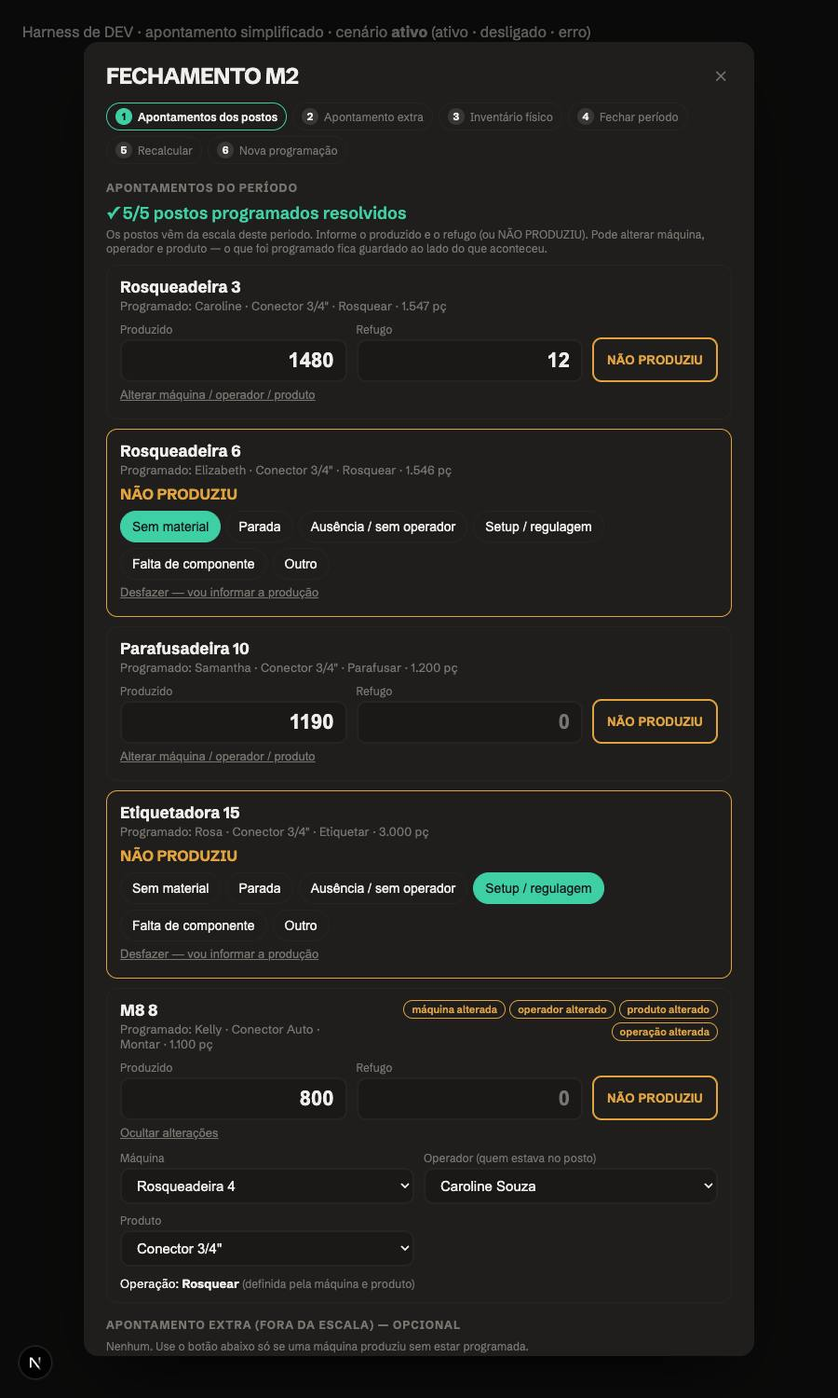
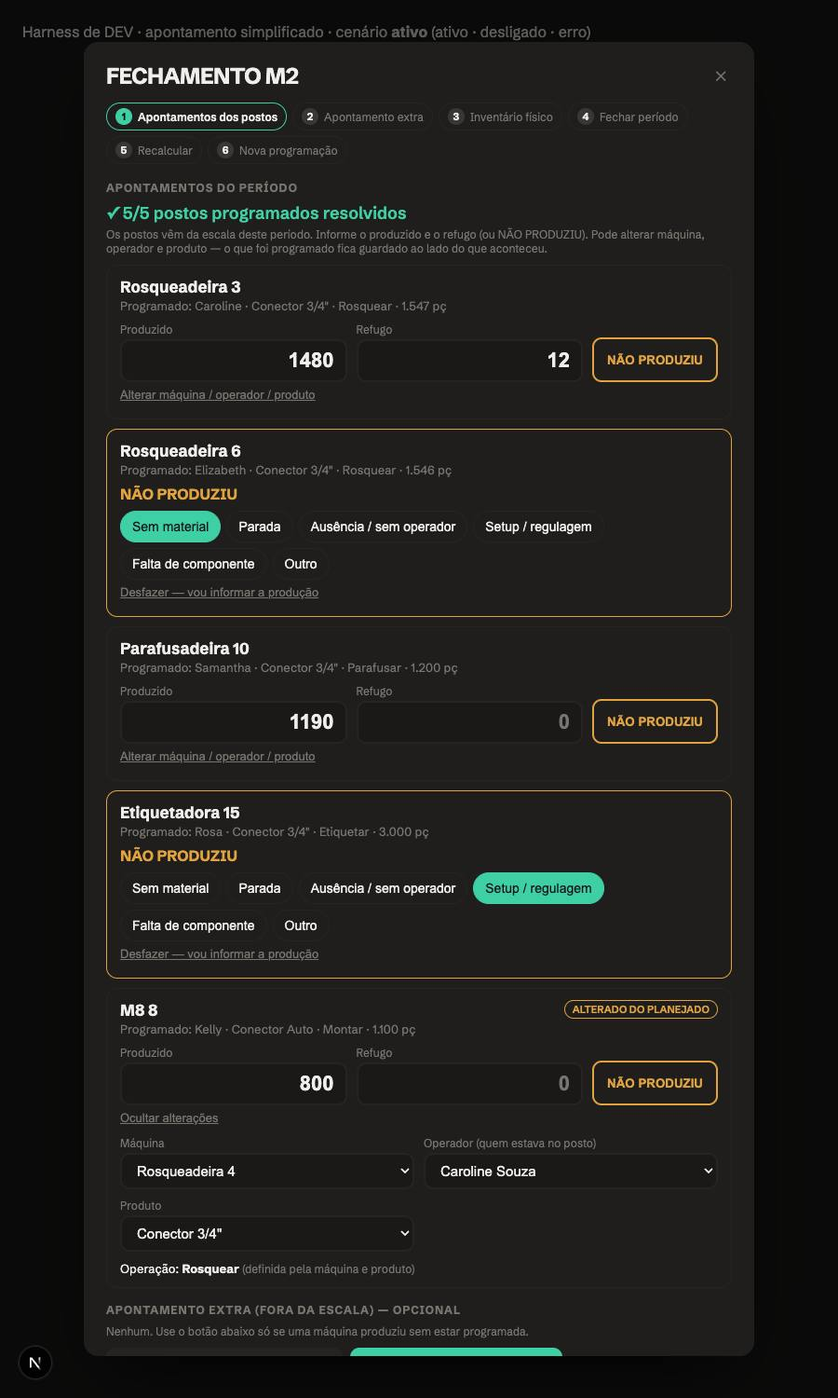
feat(apontamento-simplificado): decisões aprovadas (selo ALTERADO DO PLANEJADO, mensagem de combinação inválida), ensaio supabase-js/RPC no clone e doc atualizado

diff --git a/scripts/apontamento-simplificado/ensaio-supabasejs.ts b/scripts/apontamento-simplificado/ensaio-supabasejs.ts
@@ -1,0 +1,142 @@
+/* eslint-disable @typescript-eslint/no-explicit-any */
+// ENSAIO REAL da camada supabase-js/RPC do apontamento simplificado: PostgREST do CLONE LOCAL com JWT DE USUÁRIO (o mesmo desenho de autenticarRequisicaoIntelligence:
+// `supabaseAsUser` = anon key + Authorization Bearer <jwt do usuário>), service_role para as leituras, e as camadas reais: acaoApontamentos* → criarApontamentosIO → RPC →
+// ajustarPostosDoFechamento → criarFechamentoIO.contexto → acaoAbrir/acaoConfirmar (validação). NUNCA roda em PROD/DEV (aborta). Chamado por ensaio-supabasejs.sh (banco descartável + PostgREST próprio).
+import { execFileSync } from "node:child_process";
+import { createHmac } from "node:crypto";
+import { createClient, type SupabaseClient } from "@supabase/supabase-js";
+import { acaoApontamentosEstado, acaoApontamentosSalvar } from "@/lib/escala/fechamento/httpApontamentos";
+import { criarApontamentosIO } from "@/lib/escala/fechamento/apontamentoSimplificado";
+import { criarFechamentoIO } from "@/lib/escala/fechamento/supabaseFechamento";
+import { acaoAbrir, acaoConfirmar, type UsuarioFechamento } from "@/lib/escala/fechamento/http";
+import { linhasIniciais } from "@/features/producao-real/apontamento-simplificado/prefill";
+import { editarReal, escolherMotivo, informarQuantidades, marcarNaoProduziu } from "@/features/producao-real/apontamento-simplificado/linhas";
+import { paraRpc } from "@/features/producao-real/apontamento-simplificado/validacao";
+import { alteradoDoPlanejado } from "@/features/producao-real/apontamento-simplificado/diff";
+import type { EstadoApontamentos } from "@/lib/escala/fechamento/apontamentoSimplificado";
+
+const URL = process.env.NEXT_PUBLIC_SUPABASE_URL ?? "", ANON = process.env.NEXT_PUBLIC_SUPABASE_ANON_KEY ?? "", SVC = process.env.SUPABASE_SERVICE_ROLE_KEY ?? "", SECRET = process.env.E2E_JWT_SECRET ?? "";
+const PGPORT = process.env.CLONE_PGPORT ?? "55433", PGDB = process.env.E2E_PGDB ?? "sittech_apont_e2e";
+if (!/^http:\/\/(127\.0\.0\.1|localhost):\d+$/.test(URL) || /supabase\.co/.test(URL)) throw new Error("ABORTADO: o ensaio só roda contra o clone local");
+if (PGDB === "sittech_clone") throw new Error("ABORTADO: use o banco descartável (o clone compartilhado não recebe a migration)");
+if (!SECRET || !ANON || !SVC) throw new Error("faltam E2E_JWT_SECRET / chaves (carregue env.clone e use o .sh)");
+
+const psql = (q: string): string => execFileSync("/opt/homebrew/opt/libpq/bin/psql", ["-h", "127.0.0.1", "-p", PGPORT, "-U", "postgres", "-d", PGDB, "-At", "-v", "ON_ERROR_STOP=1", "-c", q], { encoding: "utf8" }).trim();
+const b64 = (o: unknown) => Buffer.from(JSON.stringify(o)).toString("base64url");
+const jwt = (sub: string) => { const h = b64({ alg: "HS256", typ: "JWT" }), p = b64({ sub, role: "authenticated", aud: "authenticated", exp: Math.floor(Date.now() / 1000) + 3600 }); return `${h}.${p}.${createHmac("sha256", SECRET).update(`${h}.${p}`).digest("base64url")}`; };
+const clienteUsuario = (authUid: string): SupabaseClient => createClient(URL, ANON, { auth: { persistSession: false, autoRefreshToken: false }, global: { headers: { Authorization: `Bearer ${jwt(authUid)}` } } });
+const admin = createClient(URL, SVC, { auth: { persistSession: false, autoRefreshToken: false } });
+
+const falhas: string[] = [];
+const ok = (c: boolean, nome: string, det = "") => { console.log(`${c ? "PASS" : "FAIL"}  ${nome}${det ? ` — ${det}` : ""}`); if (!c) falhas.push(nome); };
+const uuid = () => crypto.randomUUID();
+
+async function main() {
+  // usuários do clone (placeholders de auth): 2 admins distintos
+  const admins = psql("select id||'|'||auth_user_id from usuarios where papel='admin' and ativo order by id limit 2").split("\n").map((l) => l.split("|"));
+  const [[uidA, authA], [uidB, authB]] = admins;
+  const semPerm = psql("select auth_user_id from usuarios where papel<>'admin' and ativo order by id limit 1");
+  psql("delete from usuario_permissoes where usuario_id = (select id from usuarios where auth_user_id = '" + semPerm + "') and permissao in ('escala_fechamento','producao_real_apontamento')");
+  const A: UsuarioFechamento = { id: uidA, papel: "admin" }, B: UsuarioFechamento = { id: uidB, papel: "admin" };
+
+  // dia/período de teste: último dia passado com alocações (m1), com a semana tendo Previsão
+  const DATA = psql("select max(data) from escala_producao_alocacoes where maquina_id is not null and periodo_id='m1' and data < (now() at time zone 'America/Sao_Paulo')::date");
+  const PER = "m1";
+  const semana = psql(`select (date_trunc('week', date '${DATA}'))::date`);
+  console.log(`Ensaio: ${DATA} ${PER} (semana ${semana}) · banco ${PGDB} · PostgREST ${URL}`);
+  psql(`delete from apontamentos_producao where data='${DATA}' and periodo_id='${PER}'`);
+  psql("update escala_parametros set valor='\"desligado\"' where chave='apontamento_simplificado_modo'");
+
+  const comoA = clienteUsuario(authA), comoB = clienteUsuario(authB);
+  // 0) identidade do JWT chega ao banco (auth.uid via PostgREST)
+  const quem = await comoA.from("usuarios").select("id").eq("auth_user_id", authA).maybeSingle();
+  ok(quem.data?.id === uidA, "JWT de usuário aceito pelo PostgREST (RLS vê o próprio usuário)", quem.error?.message ?? "");
+
+  // 1) flag desligada: GET só {modo}, POST 409, RPC direta recusa
+  const io = criarApontamentosIO(admin, comoA);
+  ok(JSON.stringify((await acaoApontamentosEstado(io, A, DATA, PER)).corpo) === '{"modo":"desligado"}', "flag desligada: estado devolve só {modo:desligado}");
+  ok((await acaoApontamentosSalvar(io, A, { data: DATA, periodo_id: PER, linhas: [] })).status === 409, "flag desligada: salvar = 409");
+  const direta = await comoA.rpc("registrar_apontamentos_fechamento", { p_data: DATA, p_periodo_id: PER, p_linhas: [] });
+  ok(/APONTAMENTO_SIMPLIFICADO_DESLIGADO/.test(direta.error?.message ?? ""), "flag desligada: a RPC chamada via PostgREST com JWT recusa", direta.error?.message?.slice(0, 60));
+
+  // 2) liga a flag (SQL administrativo: a service_role do app não escreve parâmetros, como em PROD)
+  psql("update escala_parametros set valor='\"ativo\"' where chave='apontamento_simplificado_modo'");
+  const est = await acaoApontamentosEstado(io, A, DATA, PER);
+  const e0 = est.corpo as unknown as EstadoApontamentos & { modo: string };
+  ok(est.status === 200 && e0.modo === "ativo", "estado (service_role) com a flag ativa");
+  const nPlano = Number(psql(`select count(distinct maquina_id) from escala_producao_alocacoes where data='${DATA}' and periodo_id='${PER}' and maquina_id is not null`));
+  ok(e0.postos.length === nPlano && nPlano > 2, `postos programados = máquinas do plano oficial (${nPlano})`);
+  ok(e0.catalogo.maquinas.length > 0 && e0.catalogo.elegibilidade.length > 0 && e0.existentes.length === 0 && e0.vinculos.length === 0, "catálogo/elegibilidade carregados; nada lançado ainda");
+
+  // 3) monta as linhas com o DOMÍNIO e grava com o JWT do usuário A
+  let ls = linhasIniciais(e0.postos, e0.existentes, e0.vinculos, uuid);
+  const [p0, p1, p2] = ls;
+  const outroFunc = e0.catalogo.funcionarios.find((f) => f.id !== p2.planejado!.funcionarioId)!.id;
+  ls = ls.map((l) => (l.chave === p0.chave ? informarQuantidades(l, { produzido: 900, refugo: 7 }) : l.chave === p1.chave ? escolherMotivo(marcarNaoProduziu(l), "PARADA") : l.chave === p2.chave ? informarQuantidades(editarReal(l, { funcionarioId: outroFunc }, e0.catalogo), { produzido: 500 }) : l));
+  ok(alteradoDoPlanejado(ls.find((l) => l.chave === p2.chave)!, e0.catalogo), "domínio: operador trocado ⇒ selo ALTERADO DO PLANEJADO");
+  const r1 = await acaoApontamentosSalvar(io, A, { data: DATA, periodo_id: PER, linhas: paraRpc(ls, e0.catalogo) });
+  ok(r1.status === 200 && (r1.corpo as any).linhas?.length === 3, "salvar 3 linhas via PostgREST/JWT (transação única)", JSON.stringify(r1.corpo).slice(0, 120));
+  const vinc = psql(`select count(*)||'|'||count(*) filter (where 'OPERADOR'=any(divergencias))||'|'||count(*) filter (where motivo_nao_produziu='PARADA')||'|'||count(*) filter (where criado_por='${uidA}') from apontamento_planejado_real where data='${DATA}' and periodo_id='${PER}'`);
+  ok(vinc === "3|1|1|3", "vínculos gravados: 3 · divergência OPERADOR 1 · motivo fino PARADA 1 · criado_por = JWT do usuário", vinc);
+  ok(psql(`select motivo_sem_producao||'/'||descricao_sem_producao from apontamentos_producao where data='${DATA}' and periodo_id='${PER}' and status='sem_producao'`) === "outro/Parada de máquina", "sem_producao legado recebe outro + 'Parada de máquina'");
+
+  // 4) estado de volta: linhas SALVA_FLUXO editáveis, planejado preservado
+  const e1 = (await acaoApontamentosEstado(io, A, DATA, PER)).corpo as unknown as EstadoApontamentos;
+  const ls1 = linhasIniciais(e1.postos, e1.existentes, e1.vinculos, uuid);
+  ok(ls1.filter((l) => l.situacao === "SALVA_FLUXO").length === 3 && ls1.filter((l) => l.situacao === "NOVA").length === nPlano - 3, "estado após salvar: 3 SALVA_FLUXO, demais ainda NOVA");
+  ok(ls1.find((l) => l.planejado?.maquinaId === p1.planejado!.maquinaId)!.motivo === "PARADA", "motivo fino PARADA volta na tela");
+
+  // 5) contexto REAL do fechamento (supabase-js, motor): postos refletem os apontamentos; pendentes restantes
+  const fio = criarFechamentoIO(admin, { podeExcecao: false });
+  const ctx = await fio.contexto(DATA, PER, Date.now());
+  const pend = ctx.postos.filter((p) => p.status === "pendente").length;
+  ok(ctx.postos.length === nPlano && pend === nPlano - 3, `contexto do fechamento: ${nPlano} postos, ${pend} pendentes`);
+  ok(typeof (ctx.resumoProducao as any).apontamento_simplificado?.vinculos === "number", "resumoProducao do fechamento leva o resumo do apontamento simplificado");
+
+  // 6) completa o resto (um deles realizado em OUTRA máquina), reenvia (substitui) e confere o fechamento
+  const livres = e1.catalogo.maquinas.filter((m) => !e1.postos.some((p) => p.maquinaId === m.id));
+  const p3 = ls1.find((l) => l.situacao === "NOVA")!;
+  const alvo = livres.find((m) => editarReal(p3, { maquinaId: m.id }, e1.catalogo).real.produtoId); // máquina livre onde o produto do plano é elegível
+  let ls2 = ls1.map((l) => (l.situacao === "NOVA" ? informarQuantidades(l, { produzido: 100 }) : l));
+  if (alvo) ls2 = ls2.map((l) => (l.chave === p3.chave ? editarReal(l, { maquinaId: alvo.id }, e1.catalogo) : l));
+  ok(!alvo || alteradoDoPlanejado(ls2.find((l) => l.chave === p3.chave)!, e1.catalogo), alvo ? `posto ${p3.planejado!.maquinaNome} realizado em ${alvo.nome} (selo)` : "(sem máquina livre elegível: passo de troca de máquina pulado)");
+  const r2 = await acaoApontamentosSalvar(io, A, { data: DATA, periodo_id: PER, linhas: paraRpc(ls2, e1.catalogo) });
+  ok(r2.status === 200 && (r2.corpo as any).substituidas === 3, "reenvio via PostgREST substitui as 3 linhas do fluxo e grava o restante", JSON.stringify(r2.corpo).slice(0, 80));
+  const ctx2 = await fio.contexto(DATA, PER, Date.now());
+  ok(ctx2.postos.every((p) => p.status !== "pendente"), "contexto: 0 postos pendentes (programados resolvidos, inclusive o realizado em outra máquina)", ctx2.postos.filter((p) => p.status === "pendente").map((p) => p.nome).join(","));
+  if (alvo) ok(ctx2.postos.find((p) => p.maquinaId === p3.planejado!.maquinaId)?.status === "produzindo" || ctx2.postos.find((p) => p.maquinaId === p3.planejado!.maquinaId)?.motivo?.startsWith("realizado em") === true, "posto programado trocado de máquina fica resolvido");
+  ok(psql(`select count(*) from apontamento_producao_historico where dados_novos->>'substituido_por'='registrar_apontamentos_fechamento'`) === "3", "histórico da substituição preservado (3)");
+
+  // 7) modo físico 'sombra': acaoAbrir enxerga tem_pendentes=false; confirmar recusa pelas regras de sempre quando falta algo
+  psql("insert into escala_parametros (chave, valor, grupo, descricao) values ('escala_fechamento_fisico_modo','\"sombra\"','operacional','ensaio') on conflict (chave) do update set valor='\"sombra\"'");
+  const fioA = criarFechamentoIO(admin, { podeExcecao: false });
+  const ab = await acaoAbrir(fioA, A, { data: DATA, periodo_id: PER });
+  ok(ab.status === 200 && (ab.corpo as any).tem_pendentes === false, "acaoAbrir (camada real): tem_pendentes=false com os postos programados resolvidos", `status ${ab.status}`);
+  psql(`delete from apontamentos_producao a using apontamento_planejado_real l where l.apontamento_id=a.id and l.data='${DATA}' and l.periodo_id='${PER}' and l.maquina_planejada_id is not null and a.maquina_id = l.maquina_planejada_id and a.status='produzindo' and a.id in (select a2.id from apontamentos_producao a2 join apontamento_planejado_real l2 on l2.apontamento_id=a2.id where l2.data='${DATA}' and l2.periodo_id='${PER}' limit 1)`);
+  const conf = await acaoConfirmar(criarFechamentoIO(admin, { podeExcecao: false }), A, { data: DATA, periodo_id: PER, chave: uuid(), buffers: [] });
+  ok(conf.status === 422 && (conf.corpo as any).erros?.some((e: any) => e.codigo === "POSTOS_PENDENTES"), "acaoConfirmar: posto programado sem apontamento ⇒ POSTOS_PENDENTES (422), nada gravado", `status ${conf.status}`);
+
+  // 8) identidade/permissão/janela com o fechamento físico em modo ATIVO (gatilho do banco)
+  psql("update escala_parametros set valor='\"ativo\"' where chave='escala_fechamento_fisico_modo'");
+  const PER2 = "m2";
+  psql(`delete from apontamentos_producao where data='${DATA}' and periodo_id='${PER2}'`);
+  psql(`select escala_fechamento_abrir('${semana}', '${DATA}', '${PER2}', '${uidA}', 'ensaio', 30, false)`);
+  const mq = e1.catalogo.maquinas[0].id;
+  const linhaSem = (chave: string) => ({ data: DATA, periodo_id: PER2, linhas: [{ chave, maquina_planejada_id: null, maquina_id: mq, produto_id: null, funcionario_id: null, produzido: 0, refugo: 0, nao_produziu: true, motivo: "SEM_MATERIAL", descricao: "" }] });
+  const rB = await acaoApontamentosSalvar(criarApontamentosIO(admin, comoB), B, linhaSem(uuid()));
+  ok(rB.status === 422 && /FECHAMENTO_PERIODO_EM_FECHAMENTO/.test(String((rB.corpo as any).erro)), "janela aberta por A: o JWT de B é recusado pelo gatilho", `status ${rB.status}`);
+  const rA = await acaoApontamentosSalvar(criarApontamentosIO(admin, comoA), A, linhaSem(uuid()));
+  ok(rA.status === 200, "janela aberta por A: o JWT de A grava", `status ${rA.status}`);
+  const rSem = await clienteUsuario(semPerm).rpc("registrar_apontamentos_fechamento", { p_data: DATA, p_periodo_id: PER2, p_linhas: [] });
+  ok(/sem permissão/i.test(rSem.error?.message ?? ""), "usuário sem permissão (JWT) é recusado pela RPC", rSem.error?.message?.slice(0, 60));
+  const rAnon = await createClient(URL, ANON, { auth: { persistSession: false } }).rpc("registrar_apontamentos_fechamento", { p_data: DATA, p_periodo_id: PER2, p_linhas: [] });
+  ok(!!rAnon.error, "anon (sem JWT de usuário) não executa a RPC", rAnon.error?.message?.slice(0, 60));
+  const rSvc = await admin.rpc("registrar_apontamentos_fechamento", { p_data: DATA, p_periodo_id: PER2, p_linhas: [] });
+  ok(!!rSvc.error, "service_role não executa a RPC (só o usuário autenticado)", rSvc.error?.message?.slice(0, 60));
+  const alt = await comoA.from("apontamento_planejado_real").update({ planejado: {} }).eq("data", DATA).select();
+  ok(!!alt.error || (alt.data ?? []).length === 0, "vínculo é append-only também via PostgREST", alt.error?.message?.slice(0, 60) ?? "0 linhas");
+
+  console.log(falhas.length ? `\nFALHAS (${falhas.length}): ${falhas.join(" | ")}` : "\nENSAIO SUPABASE-JS OK");
+  process.exit(falhas.length ? 1 : 0);
+}
+main().catch((e) => { console.error(e); process.exit(1); });

diff --git a/src/features/producao-real/apontamento-simplificado/__tests__/ui.test.tsx b/src/features/producao-real/apontamento-simplificado/__tests__/ui.test.tsx
@@ -87,12 +87,43 @@ describe("PassoApontamentos (UI)", () => {
     fireEvent.click(within(cartao).getByRole("button", { name: "Alterar máquina / operador / produto" }));
     fireEvent.change(within(cartao).getByLabelText(/Operador/), { target: { value: U(12) } });
     fireEvent.change(within(cartao).getByLabelText("Máquina"), { target: { value: U(3) } });
-    expect(await within(cartao).findByText("máquina alterada")).toBeTruthy();
-    expect(within(cartao).getByText("operador alterado")).toBeTruthy();
+    const selo = await within(cartao).findByText("ALTERADO DO PLANEJADO");
+    expect(selo.getAttribute("title")).toBe("Planejado ≠ real: máquina alterada, operador alterado");
     expect(within(cartao).getByText(/Programado: Caroline/)).toBeTruthy();
     fireEvent.click(screen.getByRole("button", { name: "SALVAR APONTAMENTOS" }));
     await waitFor(() => expect(salvarApontamentosApi).toHaveBeenCalled());
     expect(salvarApontamentosApi.mock.calls[0][2][0]).toMatchObject({ maquina_planejada_id: U(1), maquina_id: U(3), funcionario_id: U(12), produto_id: U(21), produzido: 700 });
+  });
+
+  it("selo ALTERADO DO PLANEJADO: aparece só quando operador, máquina ou produto mudam; some ao voltar ao plano; salvar não pede confirmação extra", async () => {
+    monta();
+    await screen.findByText("Rosqueadeira 3");
+    const cartao = screen.getByText("Rosqueadeira 3").closest(".stx-apx-card") as HTMLElement;
+    fireEvent.change(within(cartao).getByLabelText("Produzido Rosqueadeira 3"), { target: { value: "700" } });
+    expect(screen.queryAllByTestId("selo-alterado")).toHaveLength(0);                    // só quantidades: nada alterado
+    fireEvent.click(within(cartao).getByRole("button", { name: "Alterar máquina / operador / produto" }));
+    fireEvent.change(within(cartao).getByLabelText(/Operador/), { target: { value: U(12) } });
+    expect((await within(cartao).findByTestId("selo-alterado")).textContent).toBe("ALTERADO DO PLANEJADO");
+    expect(screen.queryAllByTestId("selo-alterado")).toHaveLength(1);                    // só nesta linha
+    fireEvent.change(within(cartao).getByLabelText(/Operador/), { target: { value: U(11) } });
+    await waitFor(() => expect(screen.queryAllByTestId("selo-alterado")).toHaveLength(0));
+    fireEvent.change(within(cartao).getByLabelText(/Operador/), { target: { value: U(12) } });
+    await screen.findByTestId("selo-alterado");
+    fireEvent.click(screen.getByRole("button", { name: "SALVAR APONTAMENTOS" }));        // um toque: sem diálogo de confirmação
+    await waitFor(() => expect(salvarApontamentosApi).toHaveBeenCalledTimes(1));
+    expect(screen.queryByRole("alertdialog")).toBeNull();
+  });
+
+  it("NÃO PRODUZIU oferece 'Parada' com esse nome e grava o motivo fino PARADA", async () => {
+    monta();
+    await screen.findByText("Rosqueadeira 3");
+    const cartao = screen.getByText("Rosqueadeira 3").closest(".stx-apx-card") as HTMLElement;
+    fireEvent.click(within(cartao).getByRole("button", { name: "NÃO PRODUZIU" }));
+    expect(within(cartao).getAllByRole("button").map((b) => b.textContent)).toContain("Parada");
+    fireEvent.click(within(cartao).getByRole("button", { name: "Parada" }));
+    fireEvent.click(screen.getByRole("button", { name: "SALVAR APONTAMENTOS" }));
+    await waitFor(() => expect(salvarApontamentosApi).toHaveBeenCalled());
+    expect(salvarApontamentosApi.mock.calls[0][2][0]).toMatchObject({ maquina_id: U(1), nao_produziu: true, motivo: "PARADA" });
   });
 
   it("+ ADICIONAR APONTAMENTO cria linha FORA DA ESCALA (maquina_planejada_id null); em branco não bloqueia nem é enviada", async () => {

diff --git a/src/features/producao-real/apontamento-simplificado/__tests__/dominio.test.ts b/src/features/producao-real/apontamento-simplificado/__tests__/dominio.test.ts
@@ -2,7 +2,7 @@ import { describe, expect, it } from "vitest";
 import type { AlocacaoPlano, ApontamentoExistente, Catalogo, LinhaApontamento, VinculoSalvo } from "../tipos";
 import { postosProgramados, linhasIniciais } from "../prefill";
 import { adicionarExtra, desfazerNaoProduziu, editarDescricao, editarReal, escolherMotivo, etapaDoPar, informarQuantidades, marcarNaoProduziu, operacaoDaLinha, produtosDaMaquina, removerExtra } from "../linhas";
-import { divergencias } from "../diff";
+import { alteradoDoPlanejado, divergencias } from "../diff";
 import { MOTIVOS_NAO_PRODUZIU, motivoDoBanco, paraSemProducao } from "../motivos";
 import { bloqueiosParaSalvar, completude, linhaEmBranco, linhaIniciada, paraRpc, problemasDaLinha, problemasDoConjunto } from "../validacao";
 import { lerLinhas } from "../payload";
@@ -103,6 +103,16 @@ describe("TUDO editável + planejado preservado (planejado × real)", () => {
     expect(problemasDaLinha(l, CAT).map((p) => p.codigo)).toContain("PRODUTO_SEM_ETAPA_NA_MAQUINA");
     expect(produtosDaMaquina(CAT, "m6").map((p) => p.id)).toEqual(["pA", "pB"]);
     expect(divergencias(editarReal(por(iniciais(), "m3"), { maquinaId: "m10" }, CAT), CAT)).toEqual(["MAQUINA", "OPERACAO"]);
+  });
+  it("selo ALTERADO DO PLANEJADO: operador, máquina ou produto; só quantidades ou voltar ao plano não acionam", () => {
+    const l = por(iniciais(), "m3");
+    expect(alteradoDoPlanejado(informarQuantidades(l, { produzido: 1, refugo: 0 }), CAT)).toBe(false);
+    expect(alteradoDoPlanejado(editarReal(l, { funcionarioId: "f3" }, CAT), CAT)).toBe(true);
+    expect(alteradoDoPlanejado(editarReal(l, { maquinaId: "m6" }, CAT), CAT)).toBe(true);
+    expect(alteradoDoPlanejado(editarReal(editarReal(l, { maquinaId: "m6" }, CAT), { produtoId: "pB" }, CAT), CAT)).toBe(true);
+    expect(alteradoDoPlanejado(editarReal(editarReal(l, { funcionarioId: "f3" }, CAT), { funcionarioId: "f1" }, CAT), CAT)).toBe(false);
+    expect(alteradoDoPlanejado(marcarNaoProduziu(editarReal(l, { maquinaId: "m6" }, CAT), "PARADA"), CAT)).toBe(true);   // PLANEJADO m3 / REAL m6, sem exigir NÃO PRODUZIU na m3
+    expect(alteradoDoPlanejado(adicionarExtra([], U(1))[0], CAT)).toBe(false);                                          // extra não tem plano para comparar
   });
   it("sem alteração não há divergência; sem produção só compara a máquina", () => {
     const l = por(iniciais(), "m3");

diff --git a/src/features/producao-real/apontamento-simplificado/validacao.ts b/src/features/producao-real/apontamento-simplificado/validacao.ts
@@ -4,6 +4,8 @@ import type { Catalogo, LinhaApontamento, LinhaRpc, ProblemaLinha } from "./tipo
 import { defMotivo } from "./motivos";
 import { etapaDoPar } from "./linhas";
 
+/** Decidido: NÃO relaxar o CHECK do banco — a combinação real precisa ser tecnicamente válida (roteiro com exatamente uma etapa para máquina×produto). */
+export const MENSAGEM_SEM_ETAPA = "Esta combinação de máquina e produto não tem etapa cadastrada no roteiro (ou tem mais de uma). A combinação real precisa ser tecnicamente válida: escolha outro produto/máquina ou peça o cadastro do roteiro.";
 const ehInteiro = (n: number | null) => n !== null && Number.isInteger(n) && n >= 0;
 
 /** Linha totalmente em branco (extra que ninguém começou): é ignorada, nunca bloqueia. */
@@ -21,7 +23,7 @@ export function problemasDaLinha(l: LinhaApontamento, cat: Catalogo): ProblemaLi
     return p;
   }
   if (!l.real.produtoId) p.push({ codigo: "PRODUTO_OBRIGATORIO", mensagem: "Escolha o produto.", campo: "produto" });
-  else if (l.real.maquinaId && !etapaDoPar(cat, l.real.maquinaId, l.real.produtoId)) p.push({ codigo: "PRODUTO_SEM_ETAPA_NA_MAQUINA", mensagem: "Este produto não tem etapa cadastrada (ou tem mais de uma) nesta máquina. Escolha outro produto/máquina.", campo: "produto" });
+  else if (l.real.maquinaId && !etapaDoPar(cat, l.real.maquinaId, l.real.produtoId)) p.push({ codigo: "PRODUTO_SEM_ETAPA_NA_MAQUINA", mensagem: MENSAGEM_SEM_ETAPA, campo: "produto" });
   if (!l.real.funcionarioId) p.push({ codigo: "OPERADOR_OBRIGATORIO", mensagem: "Escolha quem estava no posto.", campo: "operador" });
   if (l.produzido === null) p.push({ codigo: "PRODUZIDO_OBRIGATORIO", mensagem: "Informe o produzido.", campo: "produzido" });
   else if (!ehInteiro(l.produzido)) p.push({ codigo: "PRODUZIDO_INVALIDO", mensagem: "Produzido deve ser um número inteiro (0 ou mais).", campo: "produzido" });

diff --git a/src/features/producao-real/apontamento-simplificado/PassoApontamentos.tsx b/src/features/producao-real/apontamento-simplificado/PassoApontamentos.tsx
@@ -4,7 +4,7 @@
 // TUDO editável (máquina, operador, produto); o planejado aparece ao lado e nunca é sobrescrito. Operador = registro de quem estava no posto, não desempenho.
 import { useCallback, useEffect, useMemo, useRef, useState } from "react";
 import { estadoApontamentosApi, salvarApontamentosApi } from "./api";
-import { divergencias, ROTULO_DIVERGENCIA } from "./diff";
+import { alteradoDoPlanejado, divergencias, ROTULO_DIVERGENCIA, ROTULO_SELO_ALTERADO } from "./diff";
 import { adicionarExtra, desfazerNaoProduziu, editarDescricao, editarReal, editavel, escolherMotivo, informarQuantidades, marcarNaoProduziu, operacaoDaLinha, produtosDaMaquina, removerExtra } from "./linhas";
 import { MOTIVOS_NAO_PRODUZIU, rotuloMotivo } from "./motivos";
 import { linhasIniciais } from "./prefill";
@@ -111,7 +111,7 @@ export default function PassoApontamentos({ data, periodoId, bloqueado, onModo, 
           <div className="stx-apx-tags">
             {l.situacao === "EXISTENTE_PAINEL" && <span className="stx-apx-tag">LANÇADO NO PAINEL</span>}
             {l.situacao === "SALVA_FLUXO" && !alterado && <span className="stx-apx-tag ok">SALVO</span>}
-            {div.map((d) => <span key={d} className="stx-apx-tag warn">{ROTULO_DIVERGENCIA[d]}</span>)}
+            {alteradoDoPlanejado(l, cat) && <span className="stx-apx-tag warn" data-testid="selo-alterado" title={`Planejado ≠ real: ${div.map((d) => ROTULO_DIVERGENCIA[d]).join(", ")}`}>{ROTULO_SELO_ALTERADO}</span>}
           </div>
         </div>
 

diff --git a/src/lib/escala/fechamento/httpApontamentos.ts b/src/lib/escala/fechamento/httpApontamentos.ts
@@ -1,5 +1,6 @@
 // Camada HTTP fina e testável do apontamento simplificado (as rotas só autenticam e delegam). Sem Next aqui.
 import { lerLinhas } from "@/features/producao-real/apontamento-simplificado/payload";
+import { MENSAGEM_SEM_ETAPA } from "@/features/producao-real/apontamento-simplificado/validacao";
 import { podeFechar, type RespostaHttp, type UsuarioFechamento } from "./http";
 import type { ApontamentosIO } from "./apontamentoSimplificado";
 
@@ -32,6 +33,8 @@ export async function acaoApontamentosSalvar(io: ApontamentosIO, u: UsuarioFecha
   } catch (e) {
     const m = e instanceof Error ? e.message : "Falha ao gravar os apontamentos.";
     // erros de regra (RPC): 422 com a mensagem para a tela; o resto: 500. Nada é gravado em nenhum caso (transação única).
+    // máquina×produto sem etapa (ou ambíguo): o banco recusa e a regra NÃO é relaxada; explica sem expor ids
+    if (/Nenhuma etapa do roteiro|Mais de uma etapa do roteiro/.test(m)) return { status: 422, corpo: { erro: MENSAGEM_SEM_ETAPA, codigo: "PRODUTO_SEM_ETAPA_NA_MAQUINA", linha: /LINHA\[([^\]]+)\]/.exec(m)?.[1] ?? null, mensagem: "Nada foi gravado." } };
     const regra = /LINHA\[|MAQUINA_DUPLICADA|POSTO_PROGRAMADO|APONTAMENTO_EDITADO_FORA_DO_FLUXO|FECHAMENTO_PERIODO_EM_FECHAMENTO|ainda não começou|data futura|Produto|Funcionário|Meta não cadastrada|etapa|exige/.test(m);
     return { status: regra ? 422 : 500, corpo: { erro: m, mensagem: "Nada foi gravado." } };
   }

diff --git a/src/lib/escala/fechamento/__tests__/apontamentoSimplificado.test.ts b/src/lib/escala/fechamento/__tests__/apontamentoSimplificado.test.ts
@@ -112,6 +112,12 @@ describe("HTTP do apontamento simplificado", () => {
     const regra = fakeApIO({ salvar: async () => { throw new Error(`LINHA[${U(1)}]: Nenhuma etapa do roteiro do produto é elegível`); } });
     const r = await acaoApontamentosSalvar(regra.io, FECHA, { data: "2026-11-03", periodo_id: "m2", linhas: [LINHA] });
     expect(r.status).toBe(422); expect(r.corpo.mensagem).toBe("Nada foi gravado.");
+    const semEtapa = fakeApIO({ salvar: async () => { throw new Error(`LINHA[${U(1)}]: Nenhuma etapa do roteiro do produto ${U(3)} é elegível para a máquina ${U(2)} — verifique o cadastro do produto`); } });
+    const e = await acaoApontamentosSalvar(semEtapa.io, FECHA, { data: "2026-11-03", periodo_id: "m2", linhas: [LINHA] });
+    expect(e.status).toBe(422);
+    expect(e.corpo).toMatchObject({ codigo: "PRODUTO_SEM_ETAPA_NA_MAQUINA", linha: U(1), mensagem: "Nada foi gravado." });
+    expect(String(e.corpo.erro)).toContain("tecnicamente válida");
+    expect(String(e.corpo.erro)).not.toContain(U(3));                              // sem ids na mensagem
     const queda = fakeApIO({ salvar: async () => { throw new Error("fetch failed"); } });
     expect((await acaoApontamentosSalvar(queda.io, FECHA, { data: "2026-11-03", periodo_id: "m2", linhas: [LINHA] })).status).toBe(500);
   });

diff --git a/src/features/producao-real/apontamento-simplificado/diff.ts b/src/features/producao-real/apontamento-simplificado/diff.ts
@@ -15,3 +15,7 @@ export function divergencias(l: LinhaApontamento, cat: Catalogo): Divergencia[] 
 }
 
 export const ROTULO_DIVERGENCIA: Record<Divergencia, string> = { MAQUINA: "máquina alterada", OPERADOR: "operador alterado", PRODUTO: "produto alterado", OPERACAO: "operação alterada" };
+
+/** Selo "ALTERADO DO PLANEJADO": operador, máquina ou produto diferentes do plano (a operação é consequência desses; sozinha não aciona o selo). Sem confirmação extra. */
+export const alteradoDoPlanejado = (l: LinhaApontamento, cat: Catalogo): boolean => divergencias(l, cat).some((d) => d !== "OPERACAO");
+export const ROTULO_SELO_ALTERADO = "ALTERADO DO PLANEJADO";

diff --git a/docs/apontamento-simplificado.md b/docs/apontamento-simplificado.md
@@ -76,8 +76,8 @@ Tabela `apontamento_planejado_real` (**append-only**: UPDATE bloqueado por gatil
 ## 4. Fluxo (6 passos, dentro do modal de fechamento)
 
 1. **Apontamentos dos postos programados**: só as máquinas do plano oficial daquele período (nunca máquina não programada), pré-preenchidas (operador, produto, operação, peças). Normalmente só `produzido` e `refugo`
-   (refugo vazio = 0, igual ao modal de hoje). `NÃO PRODUZIU` + motivo. **Tudo editável**: máquina, operador e produto (a operação é derivada de máquina×produto pelo roteiro); o programado fica visível ao lado e as
-   divergências aparecem como etiquetas. Nada bloqueia a edição; só o salvar valida (produto sem etapa na máquina, refugo > produzido, duas linhas na mesma máquina…).
+   (refugo vazio = 0, igual ao modal de hoje). `NÃO PRODUZIU` + motivo. **Tudo editável**: máquina, operador e produto (a operação é derivada de máquina×produto pelo roteiro); o programado fica visível ao lado e um selo
+   discreto "ALTERADO DO PLANEJADO" aparece quando operador, máquina ou produto mudam (sem confirmação extra). Nada bloqueia a edição; só o salvar valida (produto sem etapa na máquina, refugo > produzido, duas linhas na mesma máquina…).
 2. **Apontamento extra** (`+ ADICIONAR APONTAMENTO`): produção fora da escala; aceita o real e grava `POSTO_NAO_PLANEJADO`. Extra em branco é ignorada; extra iniciada precisa estar correta.
    `SALVAR APONTAMENTOS` grava o que está pronto (salvamento parcial permitido; postos intocados seguem pendentes).
 3. **Inventário intermediário físico** (já existia, inalterado).
@@ -98,13 +98,14 @@ pendência de um posto que a pessoa já tratou. Isso é feito por `ajustarPostos
 
 | Camada | Arquivo | Resultado |
 |---|---|---|
-| Domínio puro (pré-preenchimento, edição de qualquer campo, planejado preservado e congelado, NÃO PRODUZIU + 6 motivos + mapeamento, POSTO_NAO_PLANEJADO, completude, payload estrito, passos, flag) | `src/features/producao-real/apontamento-simplificado/__tests__/dominio.test.ts` | 35 |
-| UI (React Testing Library; API mockada): flag desligada, pré-preenchimento, salvar, editar real, extra, erro; **modal** com flag desligada (fluxo anterior) e ativa (passos + botão só libera após salvar) | `__tests__/ui.test.tsx` | 7 |
-| Orquestrador/HTTP: ajuste de postos, `acaoAbrir` (`tem_pendentes`), `acaoConfirmar` (`POSTOS_PENDENTES` 422 sem gravar; fecha com NÃO PRODUZIU/realizado em outra máquina), rotas do apontamento (403/400/409/422/500) | `src/lib/escala/fechamento/__tests__/apontamentoSimplificado.test.ts` | 10 |
+| Domínio puro (pré-preenchimento, edição de qualquer campo, planejado preservado e congelado, **selo ALTERADO DO PLANEJADO**, NÃO PRODUZIU + 6 motivos + mapeamento, POSTO_NAO_PLANEJADO, completude, payload estrito, passos, flag) | `src/features/producao-real/apontamento-simplificado/__tests__/dominio.test.ts` | 36 |
+| UI (React Testing Library; API mockada): flag desligada, pré-preenchimento, salvar, editar real, **selo ALTERADO DO PLANEJADO (aparece/some, sem confirmação extra)**, **opção "Parada" → motivo fino PARADA**, extra, erro; **modal** com flag desligada (fluxo anterior) e ativa (passos + botão só libera após salvar) | `__tests__/ui.test.tsx` | 9 |
+| Orquestrador/HTTP: ajuste de postos, `acaoAbrir` (`tem_pendentes`), `acaoConfirmar` (`POSTOS_PENDENTES` 422 sem gravar; fecha com NÃO PRODUZIU/realizado em outra máquina), rotas do apontamento (403/400/409/422/500; **máquina×produto sem etapa ⇒ 422 com explicação clara, sem ids**) | `src/lib/escala/fechamento/__tests__/apontamentoSimplificado.test.ts` | 10 |
 | **Banco** (clone local de PROD copiado para um Postgres descartável; migration 2× + teste + rollback + reaplicação) | `supabase/tests/apontamento_simplificado.test.sql` via `scripts/apontamento-simplificado/rodar-teste-db.sh` | 29 verificações ok, termina em ROLLBACK |
+| **Ensaio supabase-js/RPC com JWT de usuário via PostgREST** (clone local; ver 6.1) | `scripts/apontamento-simplificado/ensaio-supabasejs.sh` | 28 PASS / 0 FAIL |
 
-`npx vitest run` completo: **1976 passam / 14 falham em 6 arquivos — exatamente as 14 falhas de `origin/main`** (intelligence evals, producao-real desvios/funcionarios/validacao-previsao/visao-geral, relatorios arquivo; baseline medido
-antes das mudanças: 1924 passam / 14 falham; +52 testes novos). `tsc --noEmit` limpo; `eslint` limpo nos arquivos novos e tocados; `next build --webpack` (env dummy pedido) compila e lista `/api/escala/fechamento/apontamentos`.
+`npx vitest run` completo: **1979 passam / 14 falham em 6 arquivos — exatamente as 14 falhas de `origin/main`** (intelligence evals, producao-real desvios/funcionarios/validacao-previsao/visao-geral, relatorios arquivo; baseline medido
+antes das mudanças: 1924 passam / 14 falham; +55 testes novos). `tsc --noEmit` limpo; `eslint` limpo nos arquivos novos e tocados; `next build --webpack` (env dummy pedido) compila e lista `/api/escala/fechamento/apontamentos`.
 
 Banco (casos): flag desligada recusa; ligar a flag não enfileira recálculo; lote com 4 linhas (igual ao plano / NÃO PRODUZIU PARADA / operador trocado / extra) → vínculos, divergências, `POSTO_NAO_PLANEJADO`, `criado_por`;
 append-only; reenvio substitui e guarda histórico+vínculo; máquina duplicada, posto inexistente, OUTRO sem descrição, motivo inválido, produto inexistente (atomicidade: nada gravado); apontamento do painel preservado;
@@ -112,11 +113,25 @@ linha editada fora do fluxo bloqueia o reenvio; usuário sem permissão; janela 
 
 Verificação visual: harness `/dev/apontamento-simplificado` (não renderiza em produção) + `scripts/apontamento-simplificado/capturas.cjs` (Chrome headless): `docs/apontamento-simplificado/screenshots/01…09`.
 
+### 6.1 Ensaio da camada supabase-js/RPC (JWT de usuário via PostgREST) — resultado
+
+`scripts/apontamento-simplificado/ensaio-supabasejs.sh` (+ `.ts`): copia o clone local de PROD para o banco descartável `sittech_apont_e2e` (o clone compartilhado **não** recebe a migration), aplica a migration, sobe um PostgREST e um proxy próprios
+(3311/3310, mesmo `jwt-secret` do clone lido do arquivo e nunca impresso), emite JWTs HS256 de usuário e roda as camadas **reais** do app: `acaoApontamentos*` → `criarApontamentosIO` → RPC → `criarFechamentoIO.contexto` → `acaoAbrir/acaoConfirmar`.
+Desenho idêntico ao de produção: `supabaseAsUser` = anon key + `Authorization: Bearer <jwt do usuário>` para gravar; `service_role` para ler. Aborta se a URL não for local ou se o banco for o `sittech_clone`.
+
+**Resultado (rodado em 03/11, contra o clone local): 28 PASS, 0 FAIL.** Cobriu: JWT aceito pelo PostgREST (`auth.uid()` chega ao banco); flag desligada (estado só `{modo}`, POST 409, RPC recusa via PostgREST); flag ativa: postos = máquinas do plano oficial (12 em 30/10 M1),
+catálogo/elegibilidade; salvar 3 linhas numa transação (igual ao plano / NÃO PRODUZIU PARADA / operador trocado) com `criado_por` = usuário do JWT, divergência `OPERADOR`, motivo fino `PARADA` e `sem_producao` legado `outro` + "Parada de máquina";
+estado de volta (SALVA_FLUXO, motivo fino volta); contexto REAL do fechamento (motor/estado do clone): 12 postos, 9 pendentes → após completar (um posto realizado em OUTRA máquina) e **reenviar (substitui 3, histórico preservado)**: 0 pendentes e `resumoProducao` com o resumo;
+`acaoAbrir` (`tem_pendentes=false`) e `acaoConfirmar` (`POSTOS_PENDENTES` 422 quando falta posto); com o fechamento físico em modo `ativo`: janela aberta por A ⇒ JWT de B recusado pelo gatilho, JWT de A grava; usuário sem permissão recusado; **anon e service_role não executam a RPC**; vínculo append-only também via PostgREST.
+Limites do ensaio: não há GoTrue no clone (a validação do token em `autenticarRequisicaoIntelligence`, `admin.auth.getUser`, não é exercitada; o ensaio usa os mesmos clientes que ela produziria); o motor completo de recálculo (confirmação até CONFIRMADO) não foi repetido aqui (coberto pelo e2e do fechamento).
+
+**Antes de ligar `apontamento_simplificado_modo` em PROD**: repetir este ensaio é necessário mas não suficiente; falta rodar em Preview/DEV com login real (GoTrue) e conferir o grant/permissão dos usuários reais (`escala_fechamento`).
+
 ### O que NÃO foi testado (honestidade)
-- **Não** rodou contra o Supabase real nem contra o PostgREST do clone com JWT de usuário: a camada IO (`criarApontamentosIO`) foi validada só por (i) conferência das colunas/grants das consultas como `service_role` no clone e (ii) fakes. A RPC foi testada direto no Postgres com `request.jwt.claims`.
+- Login real (GoTrue) e Supabase DEV/Preview: só clone local (ver 6.1).
 - Revezamento real de vários funcionários num mesmo posto/período: não há modelo (1 `funcionario_id`).
 - Navegador real em tablet físico; apenas harness com dados scriptados.
-- Fluxo completo com o fechamento em modo `ativo` + recálculo real (motor) — o orquestrador foi coberto com IO fake; o ensaio completo precisa do clone com a migration aplicada e usuários reais.
+- Confirmação completa até CONFIRMADO (motor de recálculo) com o apontamento simplificado: o ensaio 6.1 chega até a validação (`POSTOS_PENDENTES`/`tem_pendentes`) e o orquestrador foi coberto com IO fake.
 
 ## 7. CONFLITOS COM feat/fechamento-fisico
 
@@ -138,14 +153,16 @@ Não tocados (nem em outra forma): `orquestrador.ts`, `http.ts`, `api.ts`, `leit
 2. Não é trivialmente isolada: 2 arquivos compartilhados com a #1 (um é a tela principal do fechamento), uma migration dependente da dela e +1 consulta por `contexto`.
 3. Nada nela é necessário para a ativação: o fluxo atual (apontar no painel e tocar "Atualizar") continua válido e é o que foi ensaiado (replay de 03/11, ensaio final no dump).
 4. Reversível sem custo: flag `desligado` por padrão. Ordem sugerida: ativar o fechamento (#1) → observar 1–2 dias → mergear esta PR com a flag desligada → ensaio com a flag ativa em Preview/clone → ligar no horário de menor risco (fora da troca de período).
+**Decidido pelo usuário**: não entra antes da ativação de amanhã; ligar a flag só depois do ensaio em Preview/DEV com login real (item 8 da seção 9).
 Se a decisão for integrar antes, o mínimo seguro é: mergear com a flag desligada (comportamento idêntico, mas a migration e a +1 query já valem em PROD).
 
-## 9. Decisões tomadas por default e perguntas para o Mikael
+## 9. Decisões do usuário (DECIDIDAS e aplicadas)
 
-1. **Revezamento / operador**: o apontamento tem 1 `funcionario_id`. Default: pré-preenche o operador do plano e a pessoa escolhe quem estava no posto (registro, não desempenho); se várias pessoas revezaram, a tela registra uma só. *Pergunta*: registrar mais de uma (exige modelo novo)? Mantém-se "postos primeiro".
-2. **Operação editável?** No banco a operação é derivada de máquina×produto (1 etapa elegível). Default: mostrada e atualizada ao trocar máquina/produto, não editável isoladamente. *Pergunta*: precisa realmente trocar a operação mantendo máquina e produto?
-3. **Produto/máquina sem etapa cadastrada**: "realidade do chão" bate no limite do cadastro (o banco recusa). Default: a tela explica e a pessoa escolhe outro par; a RPC não grava nada. *Pergunta*: aceitar um apontamento "sem etapa" (relaxar os CHECK) ou exigir o cadastro do roteiro?
-4. **Posto programado trocado de máquina** conta como resolvido (não exige NÃO PRODUZIU na máquina original). *Pergunta*: a máquina original deveria exigir motivo?
-5. **Refugo vazio = 0** (como o modal atual). *Pergunta*: exigir digitar 0?
-6. **Linhas lançadas no painel** são só exibidas (corrigir em Apontamentos realizados, que já audita). Reenvio só substitui o que o fluxo criou.
-7. "Parada" mapeia para `outro` (não para `manutencao_programada`): quebra real continua pelo fluxo de ocorrências de máquina.
+1. **Operador**: 1 só por apontamento, pré-preenchido pelo plano e editável. Sem modelo de múltiplos operadores (registro de quem estava no posto, não desempenho; "postos primeiro").
+2. **Operação**: continua **derivada** de máquina+produto; sem edição isolada. Ao mudar máquina ou produto a operação é recalculada na hora (exibida na linha); se o par não gera exatamente uma etapa, a linha fica inválida (ver 3).
+3. **Máquina×produto sem etapa cadastrada**: o CHECK **não** é relaxado. A tela valida antes e o servidor recusa (422, `PRODUTO_SEM_ETAPA_NA_MAQUINA`, nada gravado) com a explicação: "A combinação real precisa ser tecnicamente válida: escolha outro produto/máquina ou peça o cadastro do roteiro" (sem expor ids).
+4. **Posto planejado que produziu em outra máquina**: resolvido pelo próprio apontamento alterado; **não** exige NÃO PRODUZIU na máquina original. Fica guardado PLANEJADO A / REAL B (`planejado` + `real` + `divergencias`, tabela append-only). No fechamento, o posto original aparece resolvido ("realizado em B").
+5. **Refugo vazio = 0** (não obriga digitar).
+6. **"Parada"** é motivo **resumido** do NÃO PRODUZIU (a ocorrência detalhada segue no módulo de Paradas; não duplica diagnóstico). Aparece como "Parada" na UI e grava `motivo_nao_produziu = 'PARADA'` no registro novo, mesmo que o `sem_producao` legado receba `outro` + "Parada de máquina" (testado em UI, SQL e ensaio).
+7. **Selo discreto "ALTERADO DO PLANEJADO"** na linha quando operador, máquina ou produto diferem do plano (tooltip lista o que mudou), **sem confirmação adicional** (um toque para salvar). A operação sozinha não aciona o selo (é consequência). Cobertura: domínio, UI (aparece, some ao voltar ao plano, sem `alertdialog`) e screenshots/harness atualizados.
+8. **Sequência**: esta PR **não** entra antes da ativação do fechamento físico de amanhã. Antes de ligar `apontamento_simplificado_modo`: ensaio da camada supabase-js/RPC (feito no clone, 6.1) e repetição em Preview/DEV com login real.
